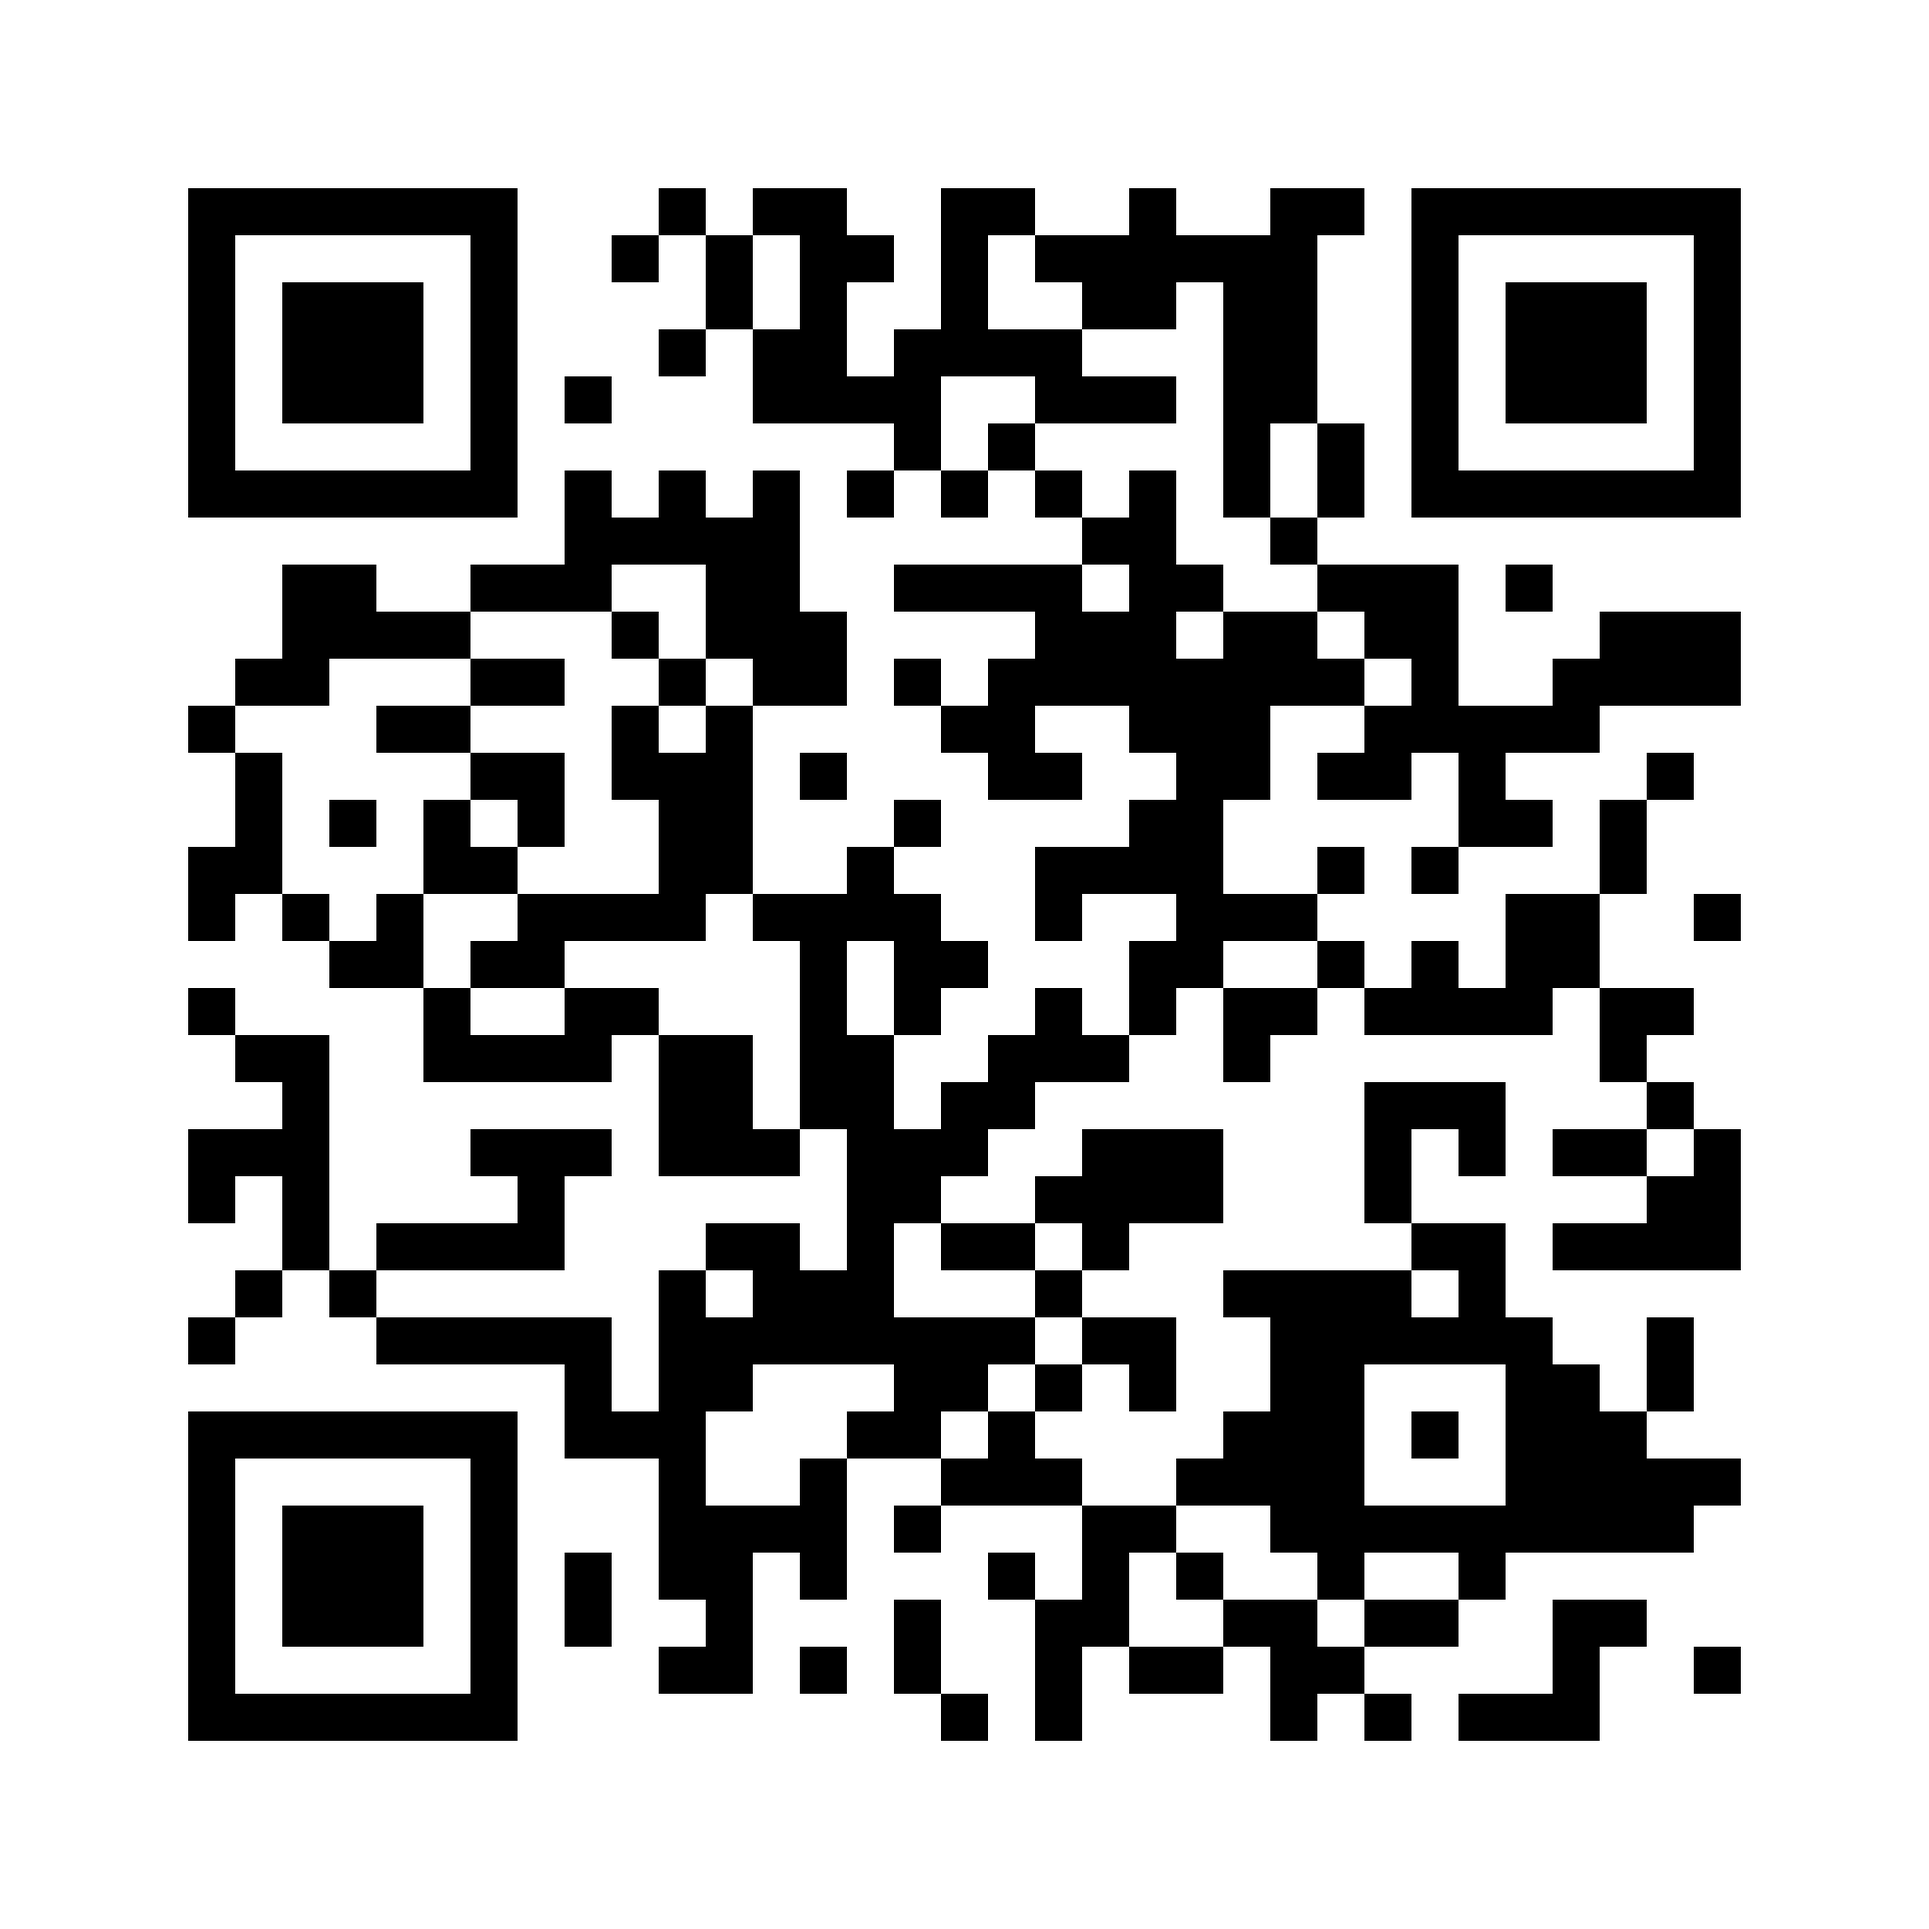
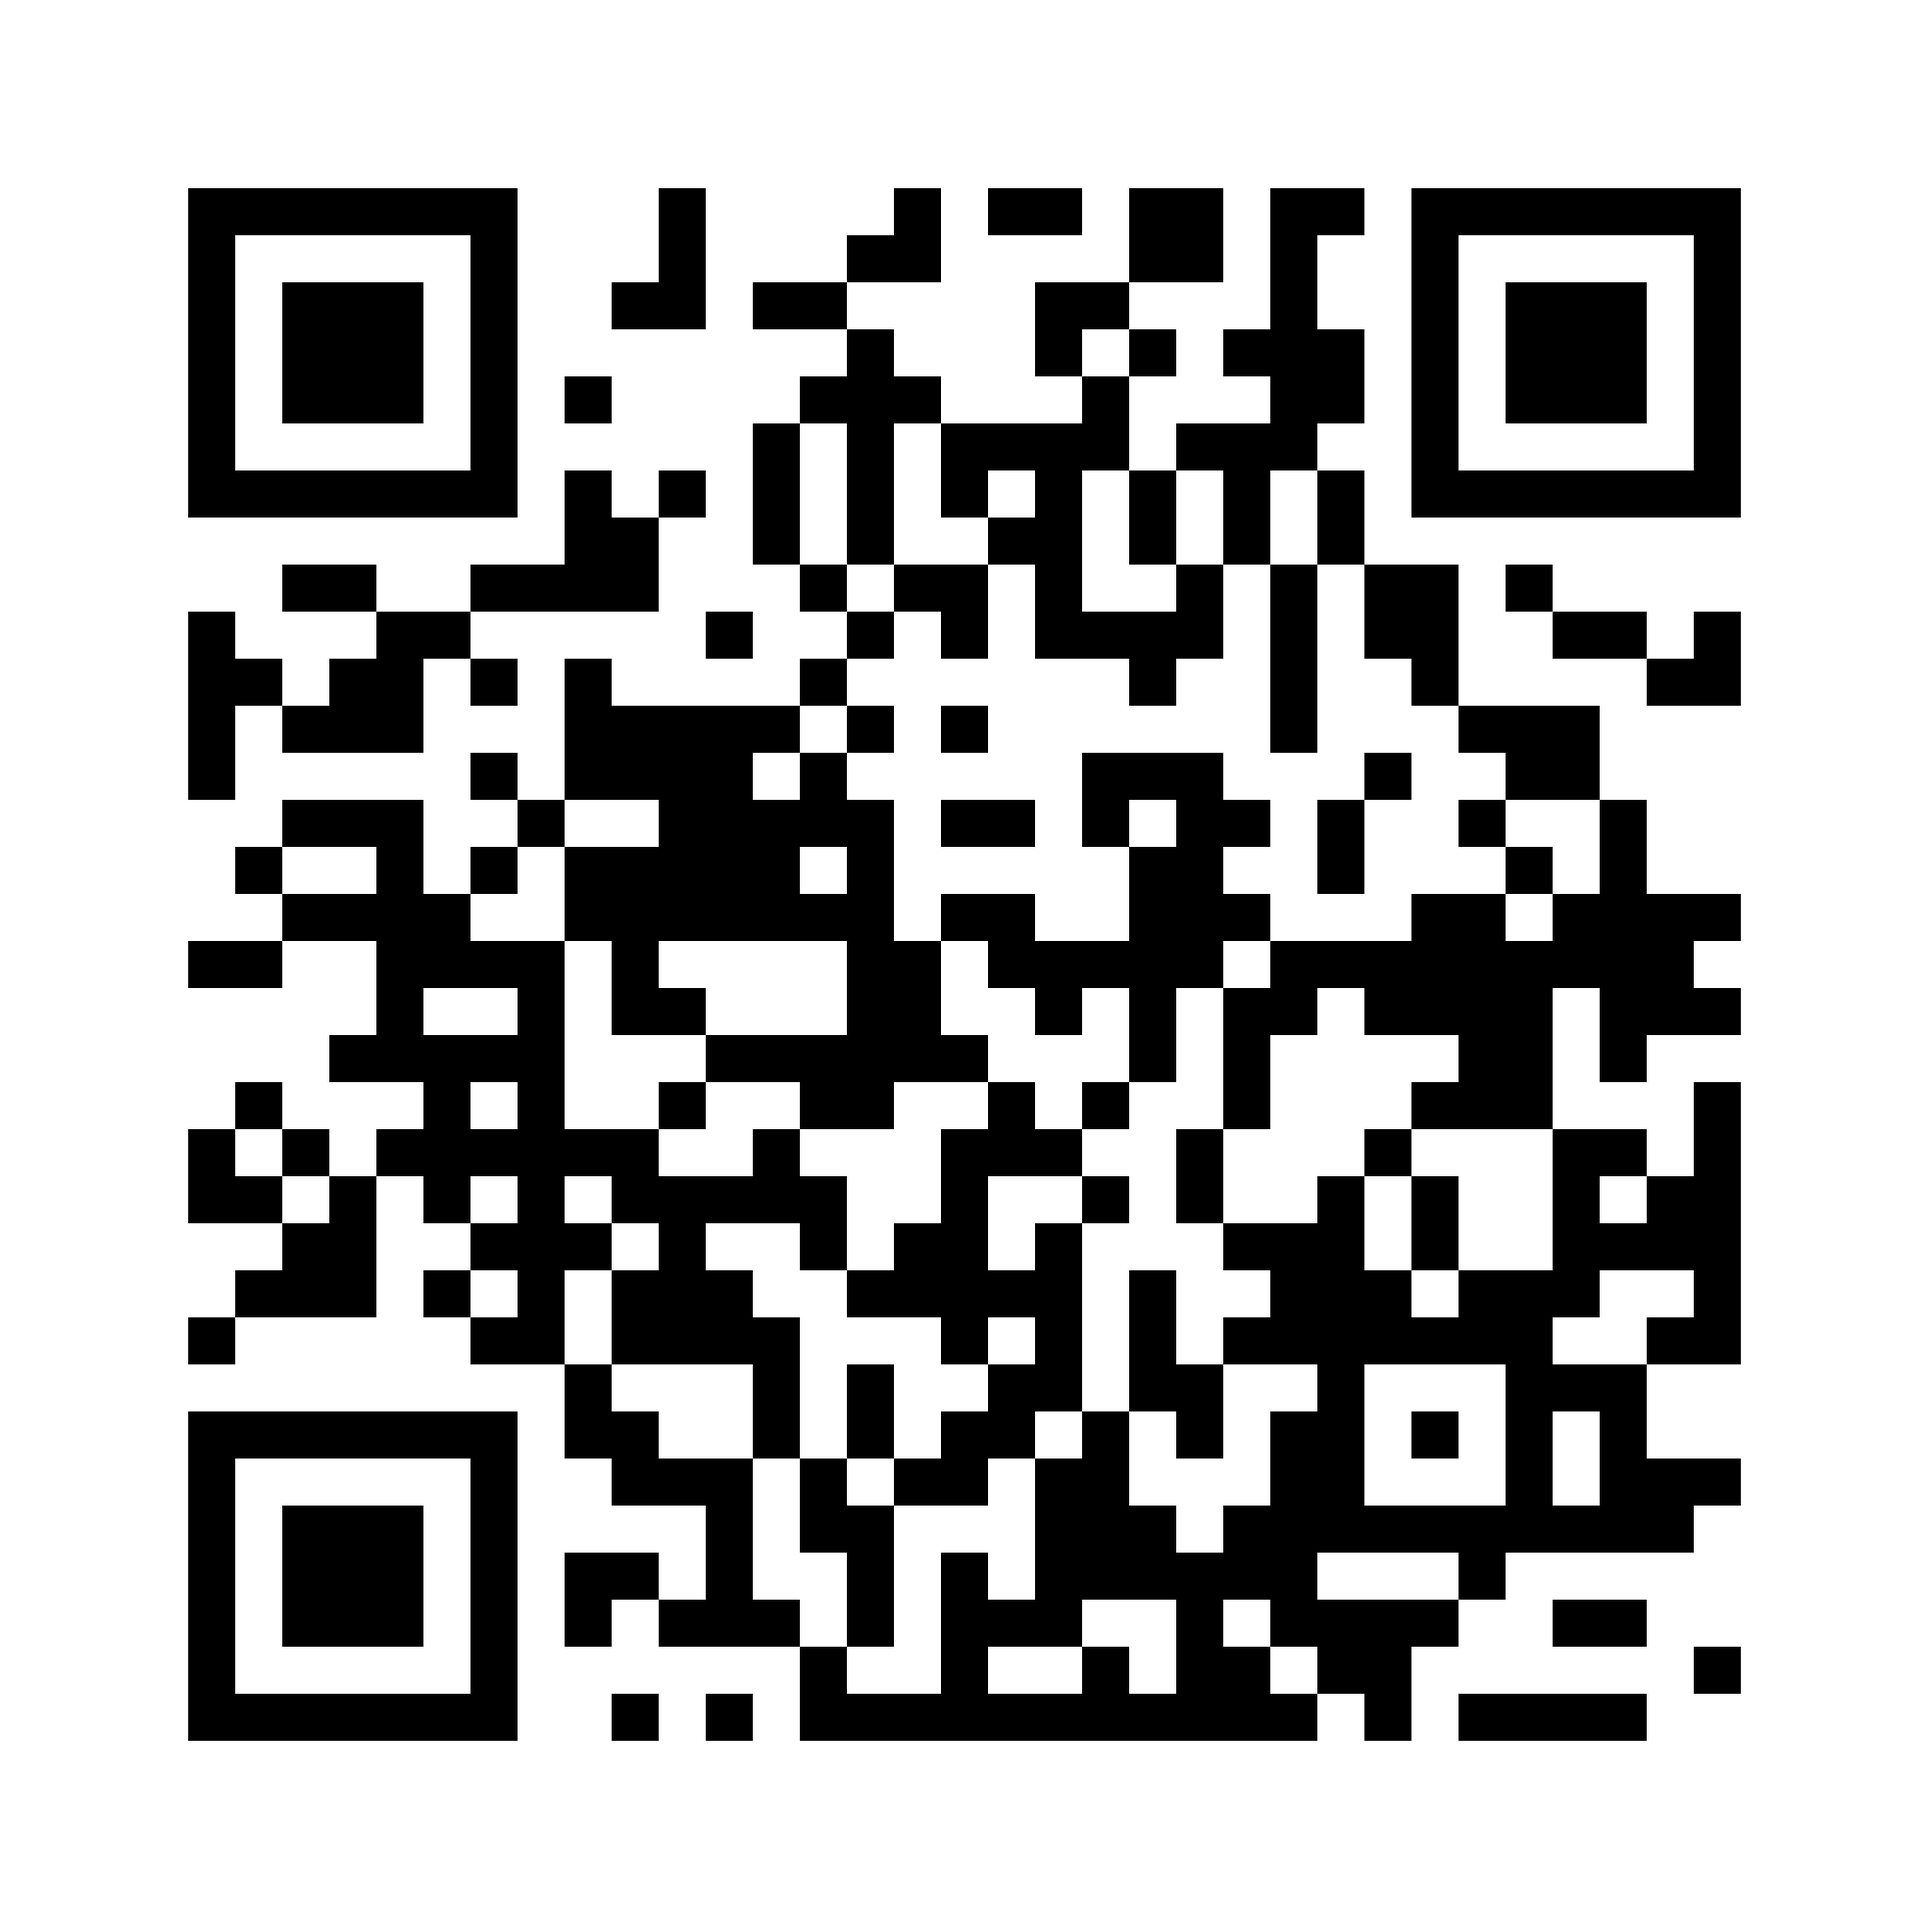
Point print QR codes to andalusgouz.vercel.app
The previous address (uz-rho.vercel.app) no longer has a deployment.

Changed region(s): [[0.0926, 0.0926, 0.9258, 0.9258], [0.8024, 0.8333, 0.8641, 0.9258]]

diff --git a/README.md b/README.md
@@ -26,7 +26,7 @@ andalusgoqrcode/
 ├── qr-generator/
 │   ├── index.html          Print QR generator (PNG + SVG)
 │   └── generator.js
-└── print/                  Ready print files for https://uz-rho.vercel.app/
+└── print/                  Ready print files for https://andalusgouz.vercel.app/
 ```
 
 No build step, no dependencies, no framework. Phones never download the page at all on Vercel; the QR library and fonts are only loaded by visitors who stay on the page.
